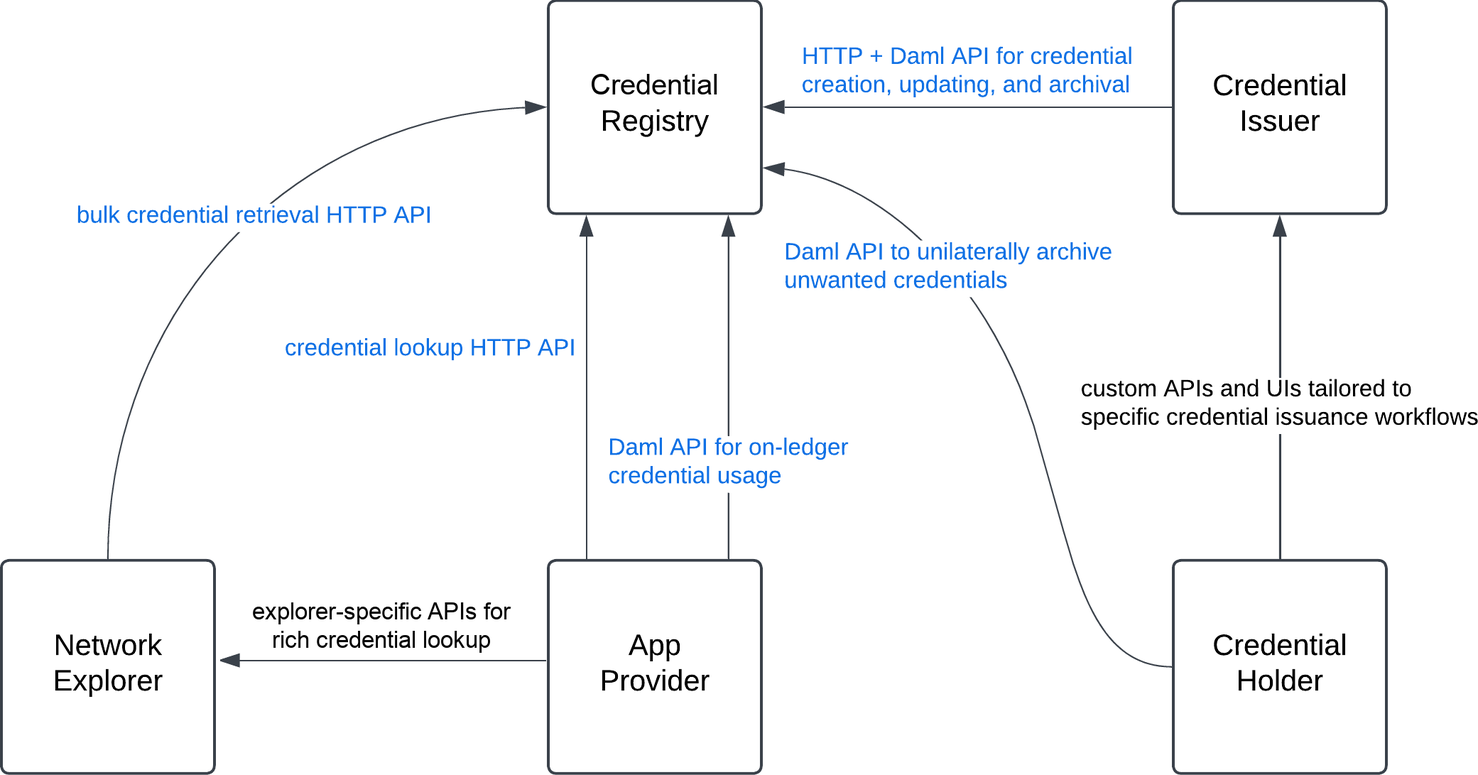
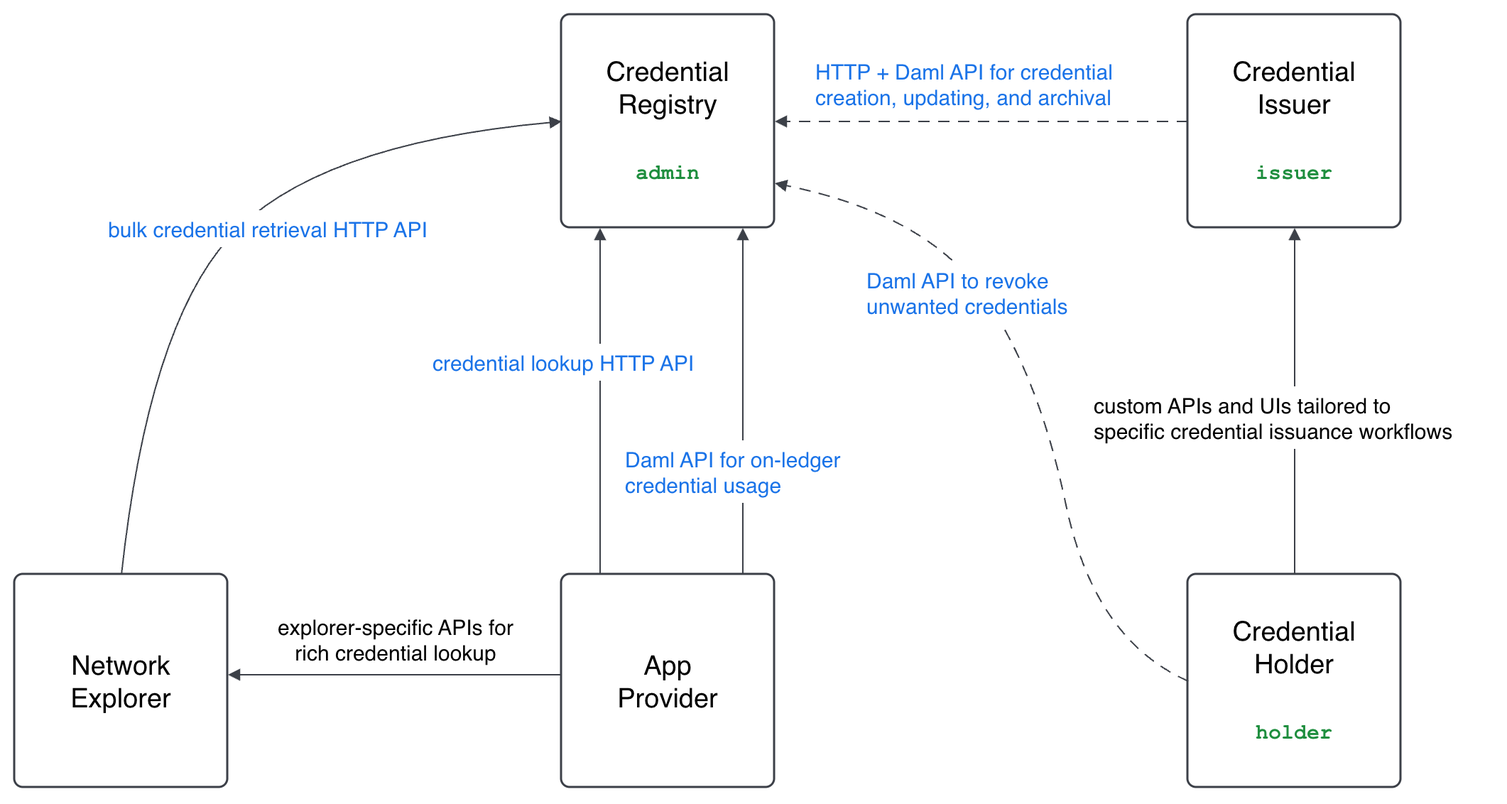
Address PR #10 review comments and code FIXMEs

diff --git a/cn-credentials-standard/cip-canton-network-credentials-standard.md b/cn-credentials-standard/cip-canton-network-credentials-standard.md
@@ -4,32 +4,13 @@
   Layer: Daml
   Title: Canton Network Credentials Standard
   Author:
-    PixelPlex, Simon Meier
+    Uladzislaŭ Kokosh, Uladzislaŭ Dzemidovich, Eugene Birski (PixelPlex)
+    Simon Meier
   License: CC0-1.0
   Status: Draft
   Type: Standards Track
   Created: 2026-11-03
 </pre>
-
-FIXME:
-- diagram: show the two modification APIs as optional APIs with dashed arrows
-  - also explain solids and dashed arrows in text
-- code:
-  - adjust reference implementation to match code shown in here
-  - adjust the OpenAPI spec of the [Credential Lookup API](#credential-lookup-api) to add the `effectiveOnly` flag
-  - split the HTTP API definitions into the read-only HTTP API and the factory HTTP API, which is optional
-    - preferred option: in splice repo
-      - `/credential-standard/splice-api-credential-registry-v1.yaml` (read-only)
-      - `/credential-standard/splice-api-credential-registry-update-v1.yaml` (modification)
-    - then update all OpenAPI links in this CIP, which currently all point to the single `openapi/credential-registry-v1.yaml`
-    - add the missing spec link for the [Bulk Credential Retrieval API](#bulk-credential-retrieval-api)
-      (note though that bulk retrieval is part of read-only API)
-    - add the spec link for the factory context endpoint in [Credential Factory Interface](#credential-factory-interface)
-  - move the Splice Credential Registry implementation out of ANS into a separate package/module
-    - preferred option move it into `splice-amulet`, we we can also use Credentials for splice-amulet related
-      functionality should we ever want to do so
-      - ==> move the code into `Splice.Credentials` within the `splice-amulet` package/module
-
 
 ## Abstract
 
@@ -41,9 +22,9 @@ and use these to solve application discovery, asset discovery, and party metadat
 The specification of this CIP consists of three parts:
 
 1. **Credential Registry APIs**: defines standard APIs for storing, retrieving, and using Canton Network credentials.
-2. **Splice Credential Registry**: specifies how these APIs are implemented in a decentralized registry run by the SV nodes as part of the Global Synchronizer. This registry serves as the base registry from which application discovery can start.
+2. **Canton Credential Registry**: specifies how these APIs are implemented in a decentralized registry run by the SV nodes as part of the Global Synchronizer. This registry serves as the base registry from which application discovery can start.
 3. **Standardized Application and Metadata Discovery**:
-   specifies how these APIs and the Splice Credential Registry are used to standardize the discovery of specific
+   specifies how these APIs and the Canton Credential Registry are used to standardize the discovery of specific
    kinds of applications on the network and their metadata
    such as the off-ledger APIs of [CIP-0056 asset registries](../cip-0056/cip-0056.md#off-ledger-api-discovery-and-access).
 
@@ -61,7 +42,7 @@ This standard is concerned with entities and apps acting in the following roles:
 - **app providers**: entities that operate apps that retrieve and use credentials in their UIs and/or in their on-ledger workflows
 - **app users**: entities that use apps that use credentials
 
-Entities often act in multiple roles. For example, a [CIP-0056 token administrator that self-publishes their off-ledger token registry URLs](../cip-0056/cip-0056.md#off-ledger-api-discovery-and-access) to the Splice Credential Registry acts both as the credential issuer and the credential holder of the corresponding credential. The claim in the credential associates the property `splice.lfdecentralizedtrust.org/registry-urls` to the actual URLs. Token Standard wallets are typical apps using credentials with that kind of property. They use them to resolve the admin party-ids encountered in tokens held by a wallet user to the [URLs to query to execute transfers and other actions](../cip-0056/cip-0056.md#utxo-access-management).
+Entities often act in multiple roles. For example, a [CIP-0056 token administrator that self-publishes their off-ledger token registry URLs](../cip-0056/cip-0056.md#off-ledger-api-discovery-and-access) to the Canton Credential Registry acts both as the credential issuer and the credential holder of the corresponding credential. The claim in the credential associates the property `splice.lfdecentralizedtrust.org/registry-urls` to the actual URLs. Token Standard wallets are typical apps using credentials with that kind of property. They use them to resolve the admin party-ids encountered in tokens held by a wallet user to the [URLs to query to execute transfers and other actions](../cip-0056/cip-0056.md#utxo-access-management).
 
 The following diagram shows how the APIs defined in this CIP mediate the interaction between the apps in the different roles. Arrows point from clients to servers of APIs.
 
@@ -69,12 +50,14 @@ The following diagram shows how the APIs defined in this CIP mediate the interac
 
 As we can see, the APIs cover the interaction between the different kinds of apps and credential registries.
 Standardized APIs are shown in blue and custom APIs are shown in black.
+Dashed arrows show optional APIs: the `CredentialFactory` API and the revocation of credentials by their holder.
+The green labels name the parties that represent the respective apps or entities on-ledger.
 Credential holders use custom APIs and UIs to interact with credential issuers. App providers can use explorer-specific APIs for richer lookups, see [Rich Credential Lookup](#rich-credential-lookup). App users are not shown in the diagram as they do not directly interact with any of the APIs standardized in this CIP. They rely on the app provider making suitable choices with respect to how to use the standardized APIs to make use of credentials in the apps' UIs and on-ledger workflows.
 
 The diagram does not show the [Credential Registry Info API](#credential-registry-info-api), which is used for extensibility. It allows apps interacting with the registry to figure out what standards the registry supports and what limits it enforces.
 
 Note that there can be many credential registries in the network.
-One of them is the [Splice Credential Registry](#splice-credential-registry),
+One of them is the [Canton Credential Registry](#canton-credential-registry),
 which serves as a base credential registry for the network.
 It is for example used to [discover the other credential registries in the network](#standardized-application-and-metadata-discovery).
 
@@ -97,11 +80,13 @@ Concretely, it is defined by the following Daml code copied from the [reference 
 ```haskell
 -- | A claim that is part of a credential.
 data Claim = Claim with
-    subject : Text
+    subject : Optional Text
       -- ^ The subject of the claim.
       --
-      -- Often set to the textual representation of the holder party-id of the credential,
-      -- which is the most common subject.
+      -- If not set, the claim pertains to the holder of the credential.
+      -- Registries MUST reject a set subject that is empty
+      -- or equal to `partyToText holder`.
+      -- A set subject is not required to be a party id.
       --
       -- Subjects MUST only contain characters from [a-zA-Z0-9 ._:/-].
       -- Note that the space character is allowed as it is allowed in party names in Daml.
@@ -198,11 +183,11 @@ data Credential_RevokeResult = Credential_RevokeResult with
   deriving (Eq, Show)
 ```
 
-Credential registries MAY enforce limits on the credentials they store to avoid operational problems from overly large credentials. The limits are communicated to users via the [Credential Registry Info API](#credential-registry-info-api). See [Splice Credential Registry Limits](#splice-credential-registry-limits) for the concrete limits enforced by the Splice Credential Registry.
+Credential registries MAY enforce limits on the credentials they store to avoid operational problems from overly large credentials. The limits are communicated to users via the [Credential Registry Info API](#credential-registry-info-api). See [Canton Credential Registry Limits](#canton-credential-registry-limits) for the concrete limits enforced by the Canton Credential Registry.
 
 ##### Credential Factory Interface
 
-The purpose of this API is to enable credential issuers and holders to *jointly* create, update, and archive credentials in a third-party credential registry. Each credential registry MUST document whose authorization it requires to create a credential, and SHOULD require the authorization of both issuer and holder. The Splice Credential Registry requires both. The specific workflows for obtaining this authorization and determining the claims of the credential are provided by the issuer and implemented in their credential issuance app.
+The purpose of this API is to enable credential issuers and holders to *jointly* create, update, and archive credentials in a third-party credential registry. Each credential registry MUST document whose authorization it requires to create a credential, and SHOULD require the authorization of both issuer and holder. The Canton Credential Registry requires both. The specific workflows for obtaining this authorization and determining the claims of the credential are provided by the issuer and implemented in their credential issuance app.
 
 Implementing this API is optional for credential registries. They MAY decide to only support registry-internal workflows for creating credentials, and not offer third-party issuers the right to publish credentials to that registry.
 
@@ -210,15 +195,15 @@ This API uses the factory pattern pioneered in [CIP-0056](../cip-0056/cip-0056.m
 
 The specifications of the `Credential` and `CredentialFactory` Daml interfaces and of the HTTP API endpoint can be found here:
 
-- [Splice/Api/Credential/RegistryV1.daml](https://github.com/hyperledger-labs/splice/pull/3416/changes#diff-808147bf36f1c087a42b92d67d2021c2ca203076cc0e3b6a31f2ccc60497a34d) (includes the data format of credentials)
-- [openapi/credential-registry-v1.yaml](https://github.com/hyperledger-labs/splice/pull/3416/changes#diff-a73145dfdb26770f01b5fc0a9f35c7c34f067584acb6ec16de7e82040df6f835)
+- [Splice/Api/Credential/RegistryV1.daml](https://github.com/canton-network/splice/blob/meiersi/std/credential-registry/daml/splice-api-credential-registry-v1/daml/Splice/Api/Credential/RegistryV1.daml) (includes the data format of credentials)
+- [splice-api-credential-registry-update-v1.yaml](https://github.com/canton-network/splice/blob/meiersi/std/credential-registry/credential-standard/splice-api-credential-registry-update-v1.yaml)
 
 ##### Expected App Usage of Daml APIs
 
 We expect applications that need to fetch credentials as part of their Daml workflows to use `Credential_Get`.
-We also expect wallets to be able to list all credentials held by their user by asking the user's validator node for all active contracts implementing the `Credential` interface. Wallets can let the user archive an unwanted credential using the `Credential_Revoke` choice, provided the credential's `revokableBy` field contains a group consisting only of the user's party. We also expect that wallets can let the user open the credential issuer's custom dApp for managing that credential. We expect them to be able to do so as explained in [Standardized Application and Metadata Discovery](#standardized-application-and-metadata-discovery).
+We also expect wallets to be able to list all credentials held by their user by asking the user's validator node for all active contracts implementing the `Credential` interface. This covers the credentials from all credential registries at once, see [Listing Credentials via the Ledger API](#listing-credentials-via-the-ledger-api). Wallets can let the user archive an unwanted credential using the `Credential_Revoke` choice, provided the credential's `revokableBy` field contains a group consisting only of the user's party. We also expect that wallets can let the user open the credential issuer's custom dApp for managing that credential. We expect them to be able to do so as explained in [Standardized Application and Metadata Discovery](#standardized-application-and-metadata-discovery).
 
-Note that apps and users that want to use credentials from a specific registry on-ledger must vet the DAR files of that credential registry.
+Note that apps and users that want to use credentials from a specific registry in their Daml workflows must vet the DAR files of that credential registry.
 
 #### Read-Only HTTP APIs
 
@@ -231,7 +216,7 @@ The purpose of the credential registry info API is twofold:
 1. It enables an asynchronous rollout of newer versions of the credential registry APIs.
 2. It informs clients about constraints of the registry (e.g., limits on the number of claims or results).
 
-The API is specified in [openapi/credential-registry-v1.yaml](https://github.com/hyperledger-labs/splice/pull/3416/changes#diff-a73145dfdb26770f01b5fc0a9f35c7c34f067584acb6ec16de7e82040df6f835).
+The API is specified in [splice-api-credential-registry-v1.yaml](https://github.com/canton-network/splice/blob/meiersi/std/credential-registry/credential-standard/splice-api-credential-registry-v1.yaml).
 
 ##### Credential Lookup API
 
@@ -243,9 +228,10 @@ The credential lookup API serves queries of the form `(property, issuer?, holder
 It also supports a boolean flag `effectiveOnly` to return only records whose validity period is effective at the time the query is served.
 
 The API returns the credential records with matching `issuer` and `holder` that contain a claim with matching `property` and `subject`.
+A `subject` equal to the `holder` also matches claims without a subject, as those pertain to the holder.
 This is all that is needed for the lookups in [Standardized Application and Metadata Discovery](#standardized-application-and-metadata-discovery), and it keeps the indexing overhead for credential registries small. Richer queries are left to network explorers, see [Rich Credential Lookup](#rich-credential-lookup).
 
-The API is specified in [openapi/credential-registry-v1.yaml](https://github.com/hyperledger-labs/splice/pull/3416/changes#diff-a73145dfdb26770f01b5fc0a9f35c7c34f067584acb6ec16de7e82040df6f835).
+The API is specified in [splice-api-credential-registry-v1.yaml](https://github.com/canton-network/splice/blob/meiersi/std/credential-registry/credential-standard/splice-api-credential-registry-v1.yaml).
 By default the API only returns the `CredentialView` of a credential. It optionally also includes the underlying contract so that it can be disclosed for usage in a Daml transaction that reads the credential.
 
 ###### Handling Duplicates
@@ -276,12 +262,14 @@ An explorer that falls further behind than that window starts over and receives 
 
 Registries SHOULD support a minimal retention window of 7 days to ensure that explorers can reliably ingest all credential events.
 
+The API is specified in [splice-api-credential-registry-v1.yaml](https://github.com/canton-network/splice/blob/meiersi/std/credential-registry/credential-standard/splice-api-credential-registry-v1.yaml).
+
 ##### Rich Credential Lookup
 
 Network explorers MAY offer richer lookups than the standardized [Credential Lookup API](#credential-lookup-api), for example by property prefix, by several issuers, or by subject alone.
-They ingest credentials through the [Bulk Credential Retrieval API](#bulk-credential-retrieval-api) and build their own indexes. This CIP does not standardize such lookups, and the Splice Credential Registry does not serve them.
+They ingest credentials through the [Bulk Credential Retrieval API](#bulk-credential-retrieval-api) and build their own indexes. This CIP does not standardize such lookups, and the Canton Credential Registry does not serve them.
 
-### Splice Credential Registry
+### Canton Credential Registry
 
 Splice adds a decentralized base credential registry that is run by the SV nodes as part of the Global Synchronizer.
 Its admin party is the `dso` party, and it implements all the APIs defined above, including the optional `CredentialFactory` API.
@@ -307,7 +295,7 @@ They do so by initiating a Token Standard transfer where:
 - `sender` is equal to the `issuer` or `holder` of the credential to extend
 - `amount` is equal to the amount of CC to burn
 - `receiver` is equal to the party `cip-tbd_credential-manager::1220000000000000000000000000000000000000000000000000000000000000abcd`
-- `memo` is equal to `cip-tbd/memo:request=extend-credential-expiry`
+- `meta["splice.lfdecentralizedtrust.org/reason"]` (shown as the memo by wallets) is equal to `cip-tbd/memo:request=extend-credential-expiry`
 - `extraArgs.context` stores the contract-id of the credential to be extended in `cip-tbd/credential-cid` as an `AV_ContractId`
 
 Note that setting the contract-id in `extraArgs.context` requires wallet apps to support this feature explicitly.
@@ -326,13 +314,13 @@ so that no CC is burned without effect.
 
 A paid extension also adds the free period, as that is de facto covered by the traffic paid for the extension transaction.
 
-#### Splice Credential Registry Limits
+#### Canton Credential Registry Limits
 
-The Splice Credential Registry rejects records that are too large to index and serve from Scan.
+The Canton Credential Registry rejects records that are too large to index and serve from Scan.
 It does not validate claim content.
 Content checks are application-specific and would bind the registry to particular use cases.
 
-A credential record is accepted by the Splice Credential Registry only if all of the following hold:
+A credential record is accepted by the Canton Credential Registry only if all of the following hold:
 
 - it contains at most 32 claims.
 - its claims are unique per `(subject, property)` pair.
@@ -341,16 +329,16 @@ A credential record is accepted by the Splice Credential Registry only if all of
 - if both are set, `validUntil` is later than `validFrom`; and if set, `validUntil` is later than `createdAt`.
   Note that `validFrom` may be earlier than `createdAt`, so that credentials can be registered even within their validity period.
 
-The registry sets the initial `expiresAt` to `createdAt` plus the free period, capped at `validUntil` if that is set.
+The registry sets `createdAt` to the `requestedAt` argument of `CredentialFactory_UpdateCredentials`, and the initial `expiresAt` to `createdAt` plus the free period, capped at `validUntil` if that is set.
 
 The size limits are advertised via the [Credential Registry Info API](#credential-registry-info-api). Other registries MAY choose different limits.
 
 
 ### Standardized Application and Metadata Discovery
 
-Together the APIs defined in this CIP and the Splice Credential Registry enable
+Together the APIs defined in this CIP and the Canton Credential Registry enable
 defining standard ways to discover applications and metadata about them.
-It works by applications using self-published credentials in the Splice Credential Registry to advertise their capabilities and metadata, which can then be discovered by apps by querying the registry.
+It works by applications using self-published credentials in the Canton Credential Registry to advertise their capabilities and metadata, which can then be discovered by apps by querying the registry.
 Clients look up property `p` of party `X` with the [Credential Lookup API](#credential-lookup-api) query `(p, X, X, X)`.
 
 The concrete claims to use in these credentials are usually defined in CIPs.
@@ -367,37 +355,36 @@ We expect future CIPs to define additional well-known properties for discovering
 This CIP defines the property `cip-tbd/credential-registry-urls`.
 
 It serves to discover the off-ledger credential registry API of a specific credential registry admin party `registryAdmin`.
-It is published by `registryAdmin` using a self-published credential (issuer = holder = `registryAdmin`) in the Splice Credential Registry,
-whose claim subject is the textual representation of `registryAdmin`'s party-id.
-It specifies a comma-separated list of URL prefixes for party `registryAdmin`. Clients append the paths of the credential registry OpenAPI to them, as for the CIP-0056 registry URLs.
+It is published by `registryAdmin` using a self-published credential (issuer = holder = `registryAdmin`) in the Canton Credential Registry, with the claim's subject unset.
+It specifies a comma-separated list of URL prefixes for party `registryAdmin`. Clients append the paths of the credential registry OpenAPI specs to them, as for the CIP-0056 registry URLs.
 Multiple URLs are supported for decentralized registries, so that clients can implement BFT reads.
 
 #### Discovering Credential Issuer Applications
 
 This CIP defines the property `cip-tbd/credential-issuer-app-url`.
 
-It serves to discover the [CIP-0103 dApp](../cip-0103/cip-0103.md) of a specific credential issuer party `issuer`. It is self-published by the `issuer` party (issuer = holder = `issuer`) in the Splice Credential Registry, with the claim subject being the textual representation of `issuer`'s party-id. The idea is that the users' wallets read the user's credentials from their node, and then query the Splice Credential Registry using `cip-tbd/credential-issuer-app-url` to discover the URL for the issuer-specific dApp to manage the user's credentials. We expect the wallet UI to offer a redirect to that dApp. Such redirects may add a `credential-cid=<contract-id>` query parameter to the URL to focus on a particular credential. Whether to offer such a UI is optional for credential issuers.
+It serves to discover the [CIP-0103 dApp](../cip-0103/cip-0103.md) of a specific credential issuer party `issuer`. It is self-published by the `issuer` party (issuer = holder = `issuer`) in the Canton Credential Registry, with the claim's subject unset. The idea is that the users' wallets read the user's credentials from their node, and then query the Canton Credential Registry using `cip-tbd/credential-issuer-app-url` to discover the URL for the issuer-specific dApp to manage the user's credentials. We expect the wallet UI to offer a redirect to that dApp. Such redirects may add a `credential-cid=<contract-id>` query parameter to the URL to focus on a particular credential. Whether to offer such a UI is optional for credential issuers.
 
 #### Discovering CIP-0056 Registries
 
 The property `splice.lfdecentralizedtrust.org/registry-urls` is already defined in [CIP-0056](../cip-0056/cip-0056.md).
 
-Token registries publish it in a self-published credential (issuer = holder = subject = registry admin) in the Splice Credential Registry.
+Token registries publish it in a self-published credential (issuer = holder = registry admin, subject unset) in the Canton Credential Registry.
 This enables wallets and apps to automatically discover the off-ledger API URLs of token registries as [outlined in CIP-0056](../cip-0056/cip-0056.md#off-ledger-api-discovery-and-access).
 It replaces the CNS-based lookup described there.
 
-#### Discovering the Splice Credential Registry and Canton Coin Token Registry
+#### Discovering the Canton Credential Registry and Canton Coin Token Registry
 
-The above properties will be used to make the Splice Credential Registry and the Canton Coin Token Registry discoverable by making the `dso` party publish a credential in the Splice Credential Registry with issuer = holder = admin = `dso` and claims
+The above properties will be used to make the Canton Credential Registry and the Canton Coin Token Registry discoverable by making the `dso` party publish a credential in the Canton Credential Registry with issuer = holder = admin = `dso` and claims
 
 | Subject | Property | Value |
 | --- | --- | --- |
-| `dso` | `cip-tbd/credential-registry-urls` | `<scan-url1>,...,<scan-urlN>` |
-| `dso` | `splice.lfdecentralizedtrust.org/registry-urls` | `<scan-url1>,...,<scan-urlN>` |
+| unset | `cip-tbd/credential-registry-urls` | `<scan-url1>,...,<scan-urlN>` |
+| unset | `splice.lfdecentralizedtrust.org/registry-urls` | `<scan-url1>,...,<scan-urlN>` |
 
 The Scan URLs are the ones published per network here: [https://canton.foundation/sv-network-status/](https://canton.foundation/sv-network-status/).
-These URLs, or the Scan proxy of a validator node, serve as the bootstrap for discovery: clients use them to query the Splice Credential Registry.
-The `dso` credential above serves to make the Splice Credential Registry discoverable in the same way as any other credential registry.
+These URLs, or the Scan proxy of a validator node, serve as the bootstrap for discovery: clients use them to query the Canton Credential Registry.
+The `dso` credential above serves to make the Canton Credential Registry discoverable in the same way as any other credential registry.
 The SV app takes care of creating and updating this credential as the Scan URLs change over time.
 
 ## Motivation
@@ -420,6 +407,12 @@ e.g., using [party profiles as proposed in this CIP](https://github.com/canton-f
 This CIP covers only credentials that can be discovered publicly, as that is all that is required for its motivating use cases: application and metadata discovery. Public credentials also enable explorers to index the network, which is what the [Bulk Credential Retrieval API](#bulk-credential-retrieval-api) is built for.
 
 Private credentials are left to a future CIP. The `Credential_Get` choice already allows registries to restrict who can fetch a non-public credential, so that such a CIP can build on the interfaces defined here. Standardizing access control for credentials published to a registry is a non-trivial effort, and is easiest where the credential issuer and the registry are run by the same entity, so that the registry can enforce issuer-specific access rules.
+
+### Listing Credentials via the Ledger API
+
+Wallets list their own user's credentials through the Ledger API of the user's validator node, and use the read-only HTTP APIs to look up credentials of other parties, for example for discovery.
+The validator node sees the user's credentials from all credential registries at once, whereas with the HTTP APIs a wallet would have to query every registry in the network, as it cannot know which of them store credentials of its user.
+This also carries over to private credentials, as the Ledger API only shows users the contracts they are a stakeholder of.
 
 ### Relationship to W3C Verifiable Credentials
 
@@ -447,7 +440,7 @@ and the registry storing them.
 This greatly lowers the technical complexity and mirrors the trust model taken for token registries,
 whose `admin` party is trusted to manage the registry and its entries.
 Where required, decentralized parties and governance can be used to enhance trust and reduce reliance on a single entity,
-as done for example for the Splice Credential Registry.
+as done for example for the Canton Credential Registry.
 
 ### No Standardized Credential Verification
 
@@ -495,16 +488,16 @@ This CIP is backwards compatible: it only adds functionality.
 
 ## Reference Implementation
 
-The HTTP and Daml APIs and the Daml code for the Splice Credential Registry are available at [this Splice PR](https://github.com/hyperledger-labs/splice/pull/3416).
+The HTTP and Daml APIs and the Daml code for the Canton Credential Registry are available on [this Splice branch](https://github.com/canton-network/splice/tree/meiersi/std/credential-registry).
 
-The Splice Credential Registry is expected to be implemented as follows:
+The Canton Credential Registry is expected to be implemented as follows:
 
 1. The Splice Daml code is changed so that there is:
    1. A template that implements the `Credential` interface and serves to record credentials in the registry.
    2. An implementation of the `CredentialFactory`, so that issuers and holders can jointly publish credentials to the registry.
    3. A modified Token Standard `TransferFactory` implementation that supports burning CC for [paid extensions](#extended-expiration-durations).
 2. The Scan app backend running on SV nodes implements the read-only HTTP APIs and the HTTP API of the `CredentialFactory`,
-   so that any Scan app can be used to interact with the Splice Credential Registry.
+   so that any Scan app can be used to interact with the Canton Credential Registry.
    The Scan app internally builds an index over all credentials in its backing Postgres DB. A single multi-column index is sufficient,
    as the lookup API only supports one query pattern.
 3. The Scan app proxy served by the validator app implements the same HTTP APIs, calling out to multiple Scan apps and comparing the results to implement BFT reads.
